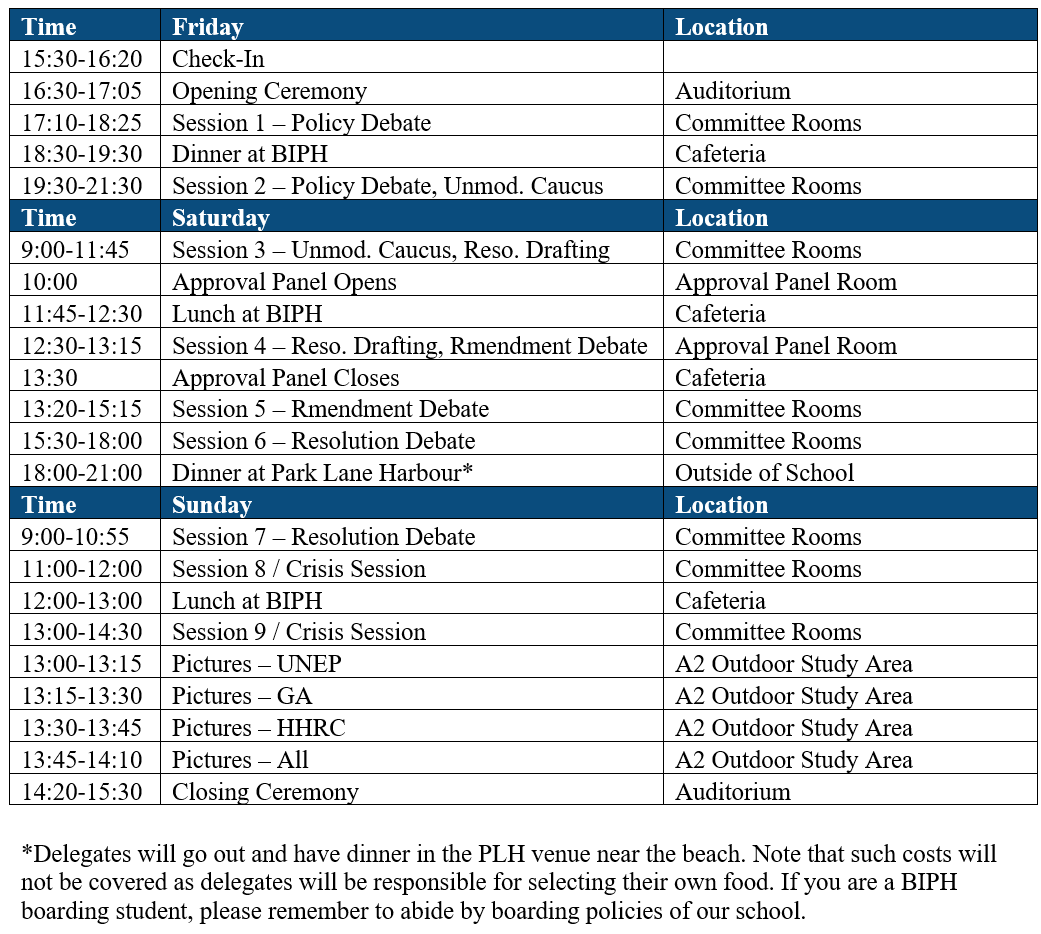
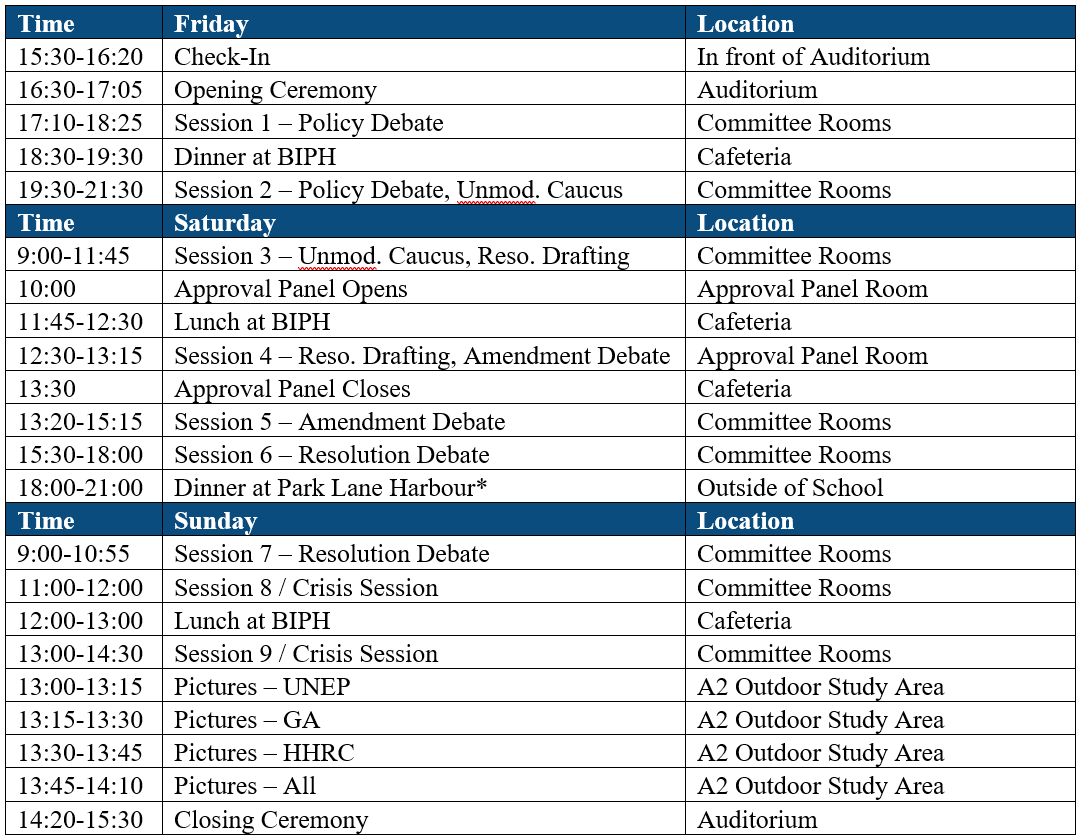
fixed typo in schedule

diff --git a/pages/resoformatter/resoformatter.js b/pages/resoformatter/resoformatter.js
@@ -74,7 +74,26 @@ document.addEventListener('DOMContentLoaded', () => {
             const url = window.URL.createObjectURL(blob);
             const a = document.createElement('a');
             a.href = url;
-            a.download = 'APP_' + selectedFile.name;
+
+            // Try to get filename from headers
+            let filename = `APP_${selectedFile.name}`; // default fallback
+
+            // Try custom header first
+            const customFilename = response.headers.get('X-Filename');
+            if (customFilename) {
+                filename = customFilename;
+            } else {
+                // Fall back to Content-Disposition
+                const contentDisposition = response.headers.get('Content-Disposition');
+                if (contentDisposition) {
+                    const filenameMatch = contentDisposition.match(/filename[^;=\n]*=((['"]).*?\2|[^;\n]*)/);
+                    if (filenameMatch && filenameMatch[1]) {
+                        filename = filenameMatch[1].replace(/['"]/g, '');
+                    }
+                }
+            }
+
+            a.download = filename;
             document.body.appendChild(a);
             a.click();
             document.body.removeChild(a);
